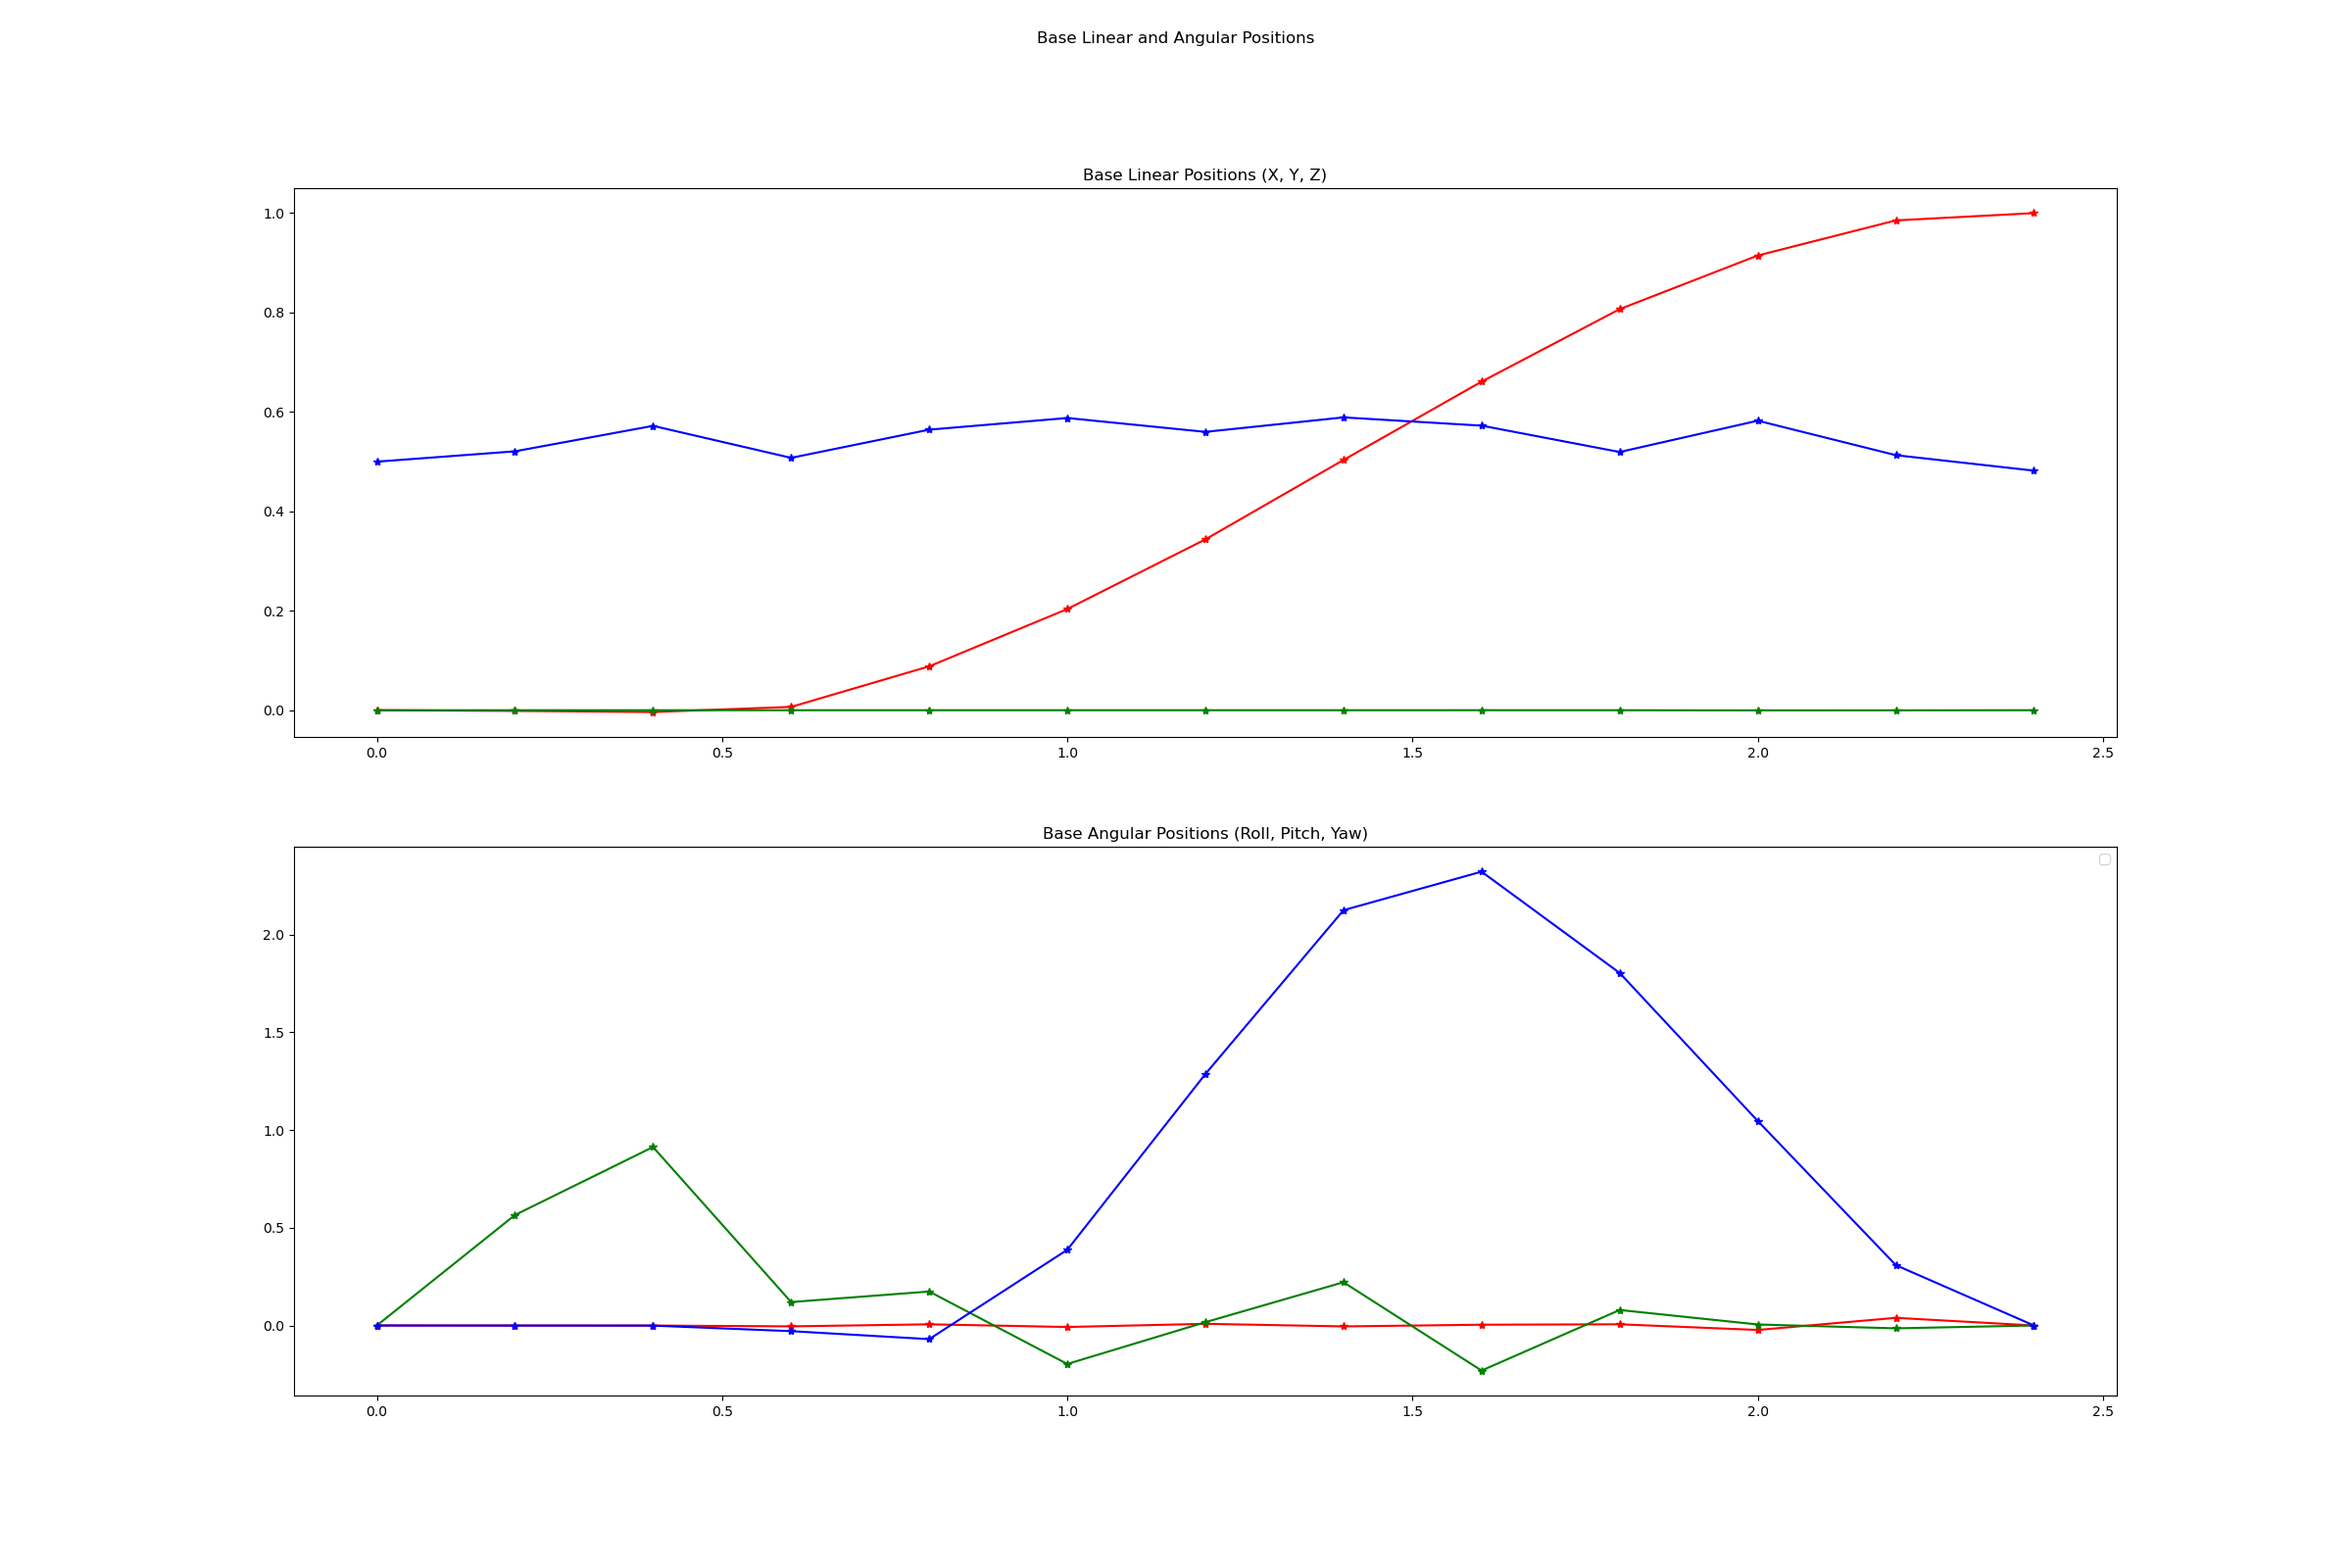
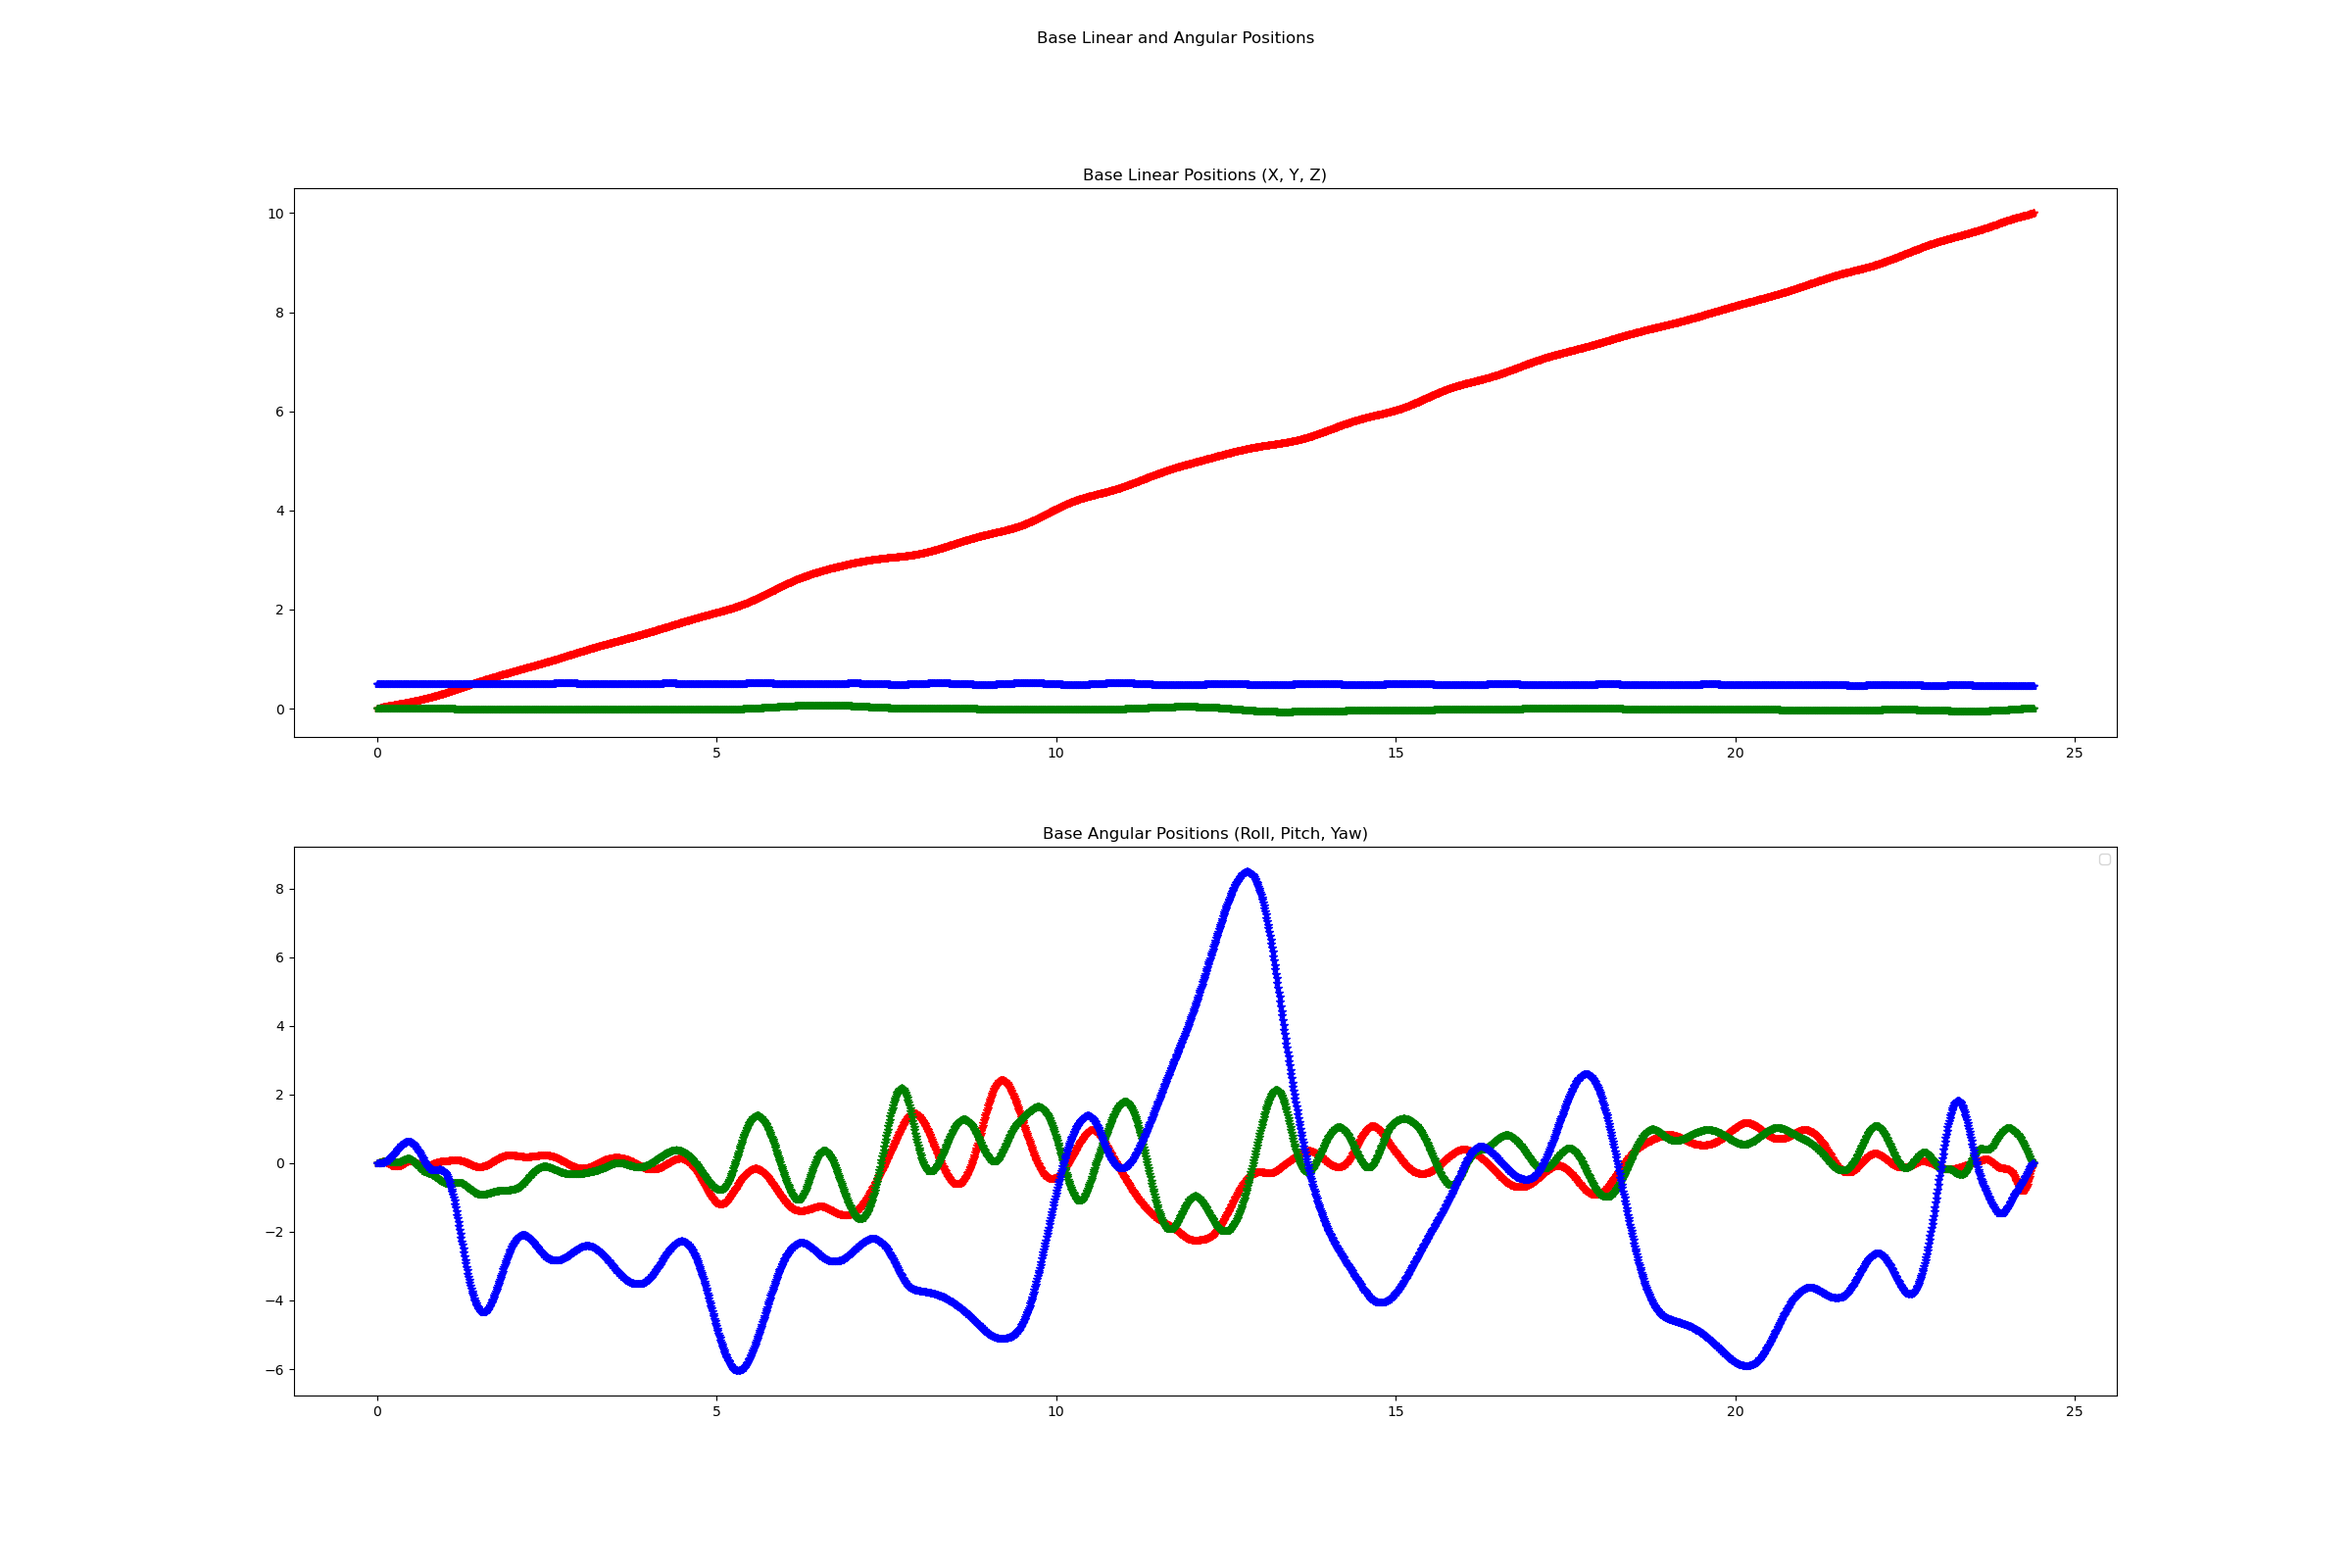
stable walking with some instabilities

diff --git a/src/main.cpp b/src/main.cpp
@@ -90,10 +90,10 @@ int main() {
   double total_duration_;
   bool optimize_phase_durations_;
 
-  robot_ = RobotModel::Anymal;
+  robot_ = RobotModel::Hyq;
   terrain_ = HeightMap::FlatID;
-  gait_combo_ = GaitGenerator::Combos::C1;
-  total_duration_ = 2.4;
+  gait_combo_ = GaitGenerator::Combos::C0; 
+  total_duration_ = 2.40;
   visualize_trajectory_ = false;
   plot_trajectory_ = false;
   replay_speed_ = 1.0;  // realtime
@@ -116,12 +116,20 @@ int main() {
 
   // Kinematic limits and dynamic parameters of the hopper
   model_ = RobotModel(RobotModel::Anymal);
+  auto nominal_stance_B = model_.kinematic_model_->GetNominalStanceInBase();
+
+  double z_ground = 0.0;
+  initial_ee_W_ =  nominal_stance_B;
+  std::for_each(initial_ee_W_.begin(), initial_ee_W_.end(),
+                [&](Eigen::Vector3d& p){ p.z() = z_ground; } // feet at 0 height
+  );
+
 
   // set the initial position of the hopper
   initial_base_.lin.at(kPos).z() = 0.5;
 
   // define the desired goal state of the hopper
-  final_base_.lin.at(towr::kPos) << 1.0, 0.0, 0.5;
+  final_base_.lin.at(towr::kPos) << 1, 0.0, 0.5;
 
   // Instead of manually defining the initial durations for each foot and
   // step, for convenience we use a GaitGenerator with some predefined gaits
@@ -131,19 +139,19 @@ int main() {
   gait_gen_->SetCombo(id_gait);
   for (int ee = 0; ee < n_ee; ++ee) {
     initial_ee_W_.push_back(Eigen::Vector3d::Zero());
-
-    std::vector<double> phase_durations = gait_gen_->GetPhaseDurations(total_duration_, ee);
-    std::cout << "Phase durations for end-effector " << ee << ": ";
-    for (double duration : phase_durations) {
-        std::cout << duration << " ";
-    }
-    std::cout << std::endl;
-    params_.ee_phase_durations_.push_back(
-        gait_gen_->GetPhaseDurations(total_duration_, ee));
-    params_.ee_in_contact_at_start_.push_back(
-        gait_gen_->IsInContactAtStart(ee));
+    // params_.ee_phase_durations_.push_back(
+    //     gait_gen_->GetPhaseDurations(total_duration_, ee));
+    // params_.ee_in_contact_at_start_.push_back(
+    //     gait_gen_->IsInContactAtStart(ee));
   }
-  
+    // auto gait_gen_ = GaitGenerator::MakeGaitGenerator(n_ee);
+    // auto id_gait   = static_cast<GaitGenerator::Combos>(msg.gait);
+    // gait_gen_->SetCombo(id_gait);
+    for (int ee=0; ee<n_ee; ++ee) {
+      params_.ee_phase_durations_.push_back(gait_gen_->GetPhaseDurations(total_duration_, ee));
+      params_.ee_in_contact_at_start_.push_back(gait_gen_->IsInContactAtStart(ee));
+    }
+
   // add 
 
   // Here you can also add other constraints or change parameters
@@ -153,8 +161,9 @@ int main() {
   // more difficult terrain.
   if (optimize_phase_durations_) params_.OptimizePhaseDurations();
 
-
-
+  // print total time 
+  std::cout << "Total time ia: " << params_.GetTotalTime() << " seconds" << std::endl;
+  std::cout << "Number of nodes: " << int(params_.GetBasePolyDurations().size() )+ 1 << std::endl;
 
   std::vector<NodesVariables::Ptr> vars;
 
@@ -228,7 +237,8 @@ int main() {
   }
   vars.insert(vars.end(), ee_motion.begin(), ee_motion.end());
 
-
+  // std::cout << "params_.GetPhaseCount(" << 0 << "): " << params_.GetPhaseCount(0) << std::endl;
+  
 
   std::vector<NodesVariablesPhaseBased::Ptr> ee_force;
 
@@ -285,14 +295,14 @@ int main() {
   // constraints and costs.
   
   
-
+  
   for (int ee=0; ee<params_.GetEECount(); ee++) {
     auto rom = std::make_shared<RangeOfMotionConstraint>(model_.kinematic_model_,
                                                          params_.GetTotalTime(),
                                                          params_.dt_constraint_range_of_motion_,
                                                          ee,
                                                          spline_holder);
-    // constraints.push_back(rom);
+    constraints.push_back(rom);
   }
   
   
@@ -338,10 +348,23 @@ int main() {
 
 
 
+ std::vector<ifopt::CostTerm::Ptr> costs;
+ double weight = 1.0;
+
+  // for (int ee=0; ee<params_.GetEECount(); ee++)
+  //   costs.push_back(std::make_shared<NodeCost>(ee_force_nodes + std::to_string(ee), kPos, Z, weight));
+
+
+  // for (int ee=0; ee<params_.GetEECount(); ee++) {
+  //   costs.push_back(std::make_shared<NodeCost>(ee_motion_nodes + std::to_string(ee), kVel, X, weight));
+  //   costs.push_back(std::make_shared<NodeCost>(ee_motion_nodes + std::to_string(ee), kVel, Y, weight));
+  // }
+
+
   ifopt::Problem nlp;
   for (auto var : vars) nlp.AddVariableSet(var);
   for (auto con : constraints)  nlp.AddConstraintSet(con); 
-  // for (auto c : formulation.GetCosts()) nlp.AddCostSet(c);
+  for (auto cost : costs) nlp.AddCostSet(cost);
 
   // You can add your own elements to the nlp as well, simply by calling:
   // nlp.AddVariablesSet(your_custom_variables);
@@ -391,7 +414,7 @@ int main() {
 
     cout << endl;
 
-    t += 0.2;
+    t += 0.02;
   }
 
   plot_trajectories(solution);

diff --git a/include/plot_trajectories.h b/include/plot_trajectories.h
@@ -202,6 +202,18 @@ void plot_grouped_trajectories(const towr::SplineHolder& solution) {
         // Foot positions, forces, and contact phases
         for (size_t leg = 0; leg < 4; ++leg) {
             Eigen::Vector3d foot_pos = solution.ee_motion_.at(leg)->GetPoint(t).p();
+
+
+            // Eigen::Vector3d base_W  = solution.base_linear_->GetPoint(t).p();
+
+            // Eigen::Vector3d pos_ee_W = solution.ee_motion_.at(leg)->GetPoint(t).p();
+            // towr::EulerConverter base_angular_ = solution.base_angular_;
+            // towr::EulerConverter::MatrixSXd b_R_w = base_angular_.GetRotationMatrixBaseToWorld(t).transpose();
+
+            // Eigen::Vector3d vector_base_to_ee_W = pos_ee_W - base_W;
+            
+            // Eigen::Vector3d vector_base_to_ee_B = b_R_w*(vector_base_to_ee_W);
+            // foot_pos = vector_base_to_ee_B;
             foot_positions[leg][0].push_back(foot_pos.x());
             foot_positions[leg][1].push_back(foot_pos.y());
             foot_positions[leg][2].push_back(foot_pos.z());
@@ -215,7 +227,7 @@ void plot_grouped_trajectories(const towr::SplineHolder& solution) {
             contact_phases[leg].push_back(is_contact ? 1.0 : 0.0);
         }
 
-        t += 0.2;
+        t += 0.01;
     }
 
     // Save grouped base linear and angular positions plot

diff --git a/src/towr/parameters.cc b/src/towr/parameters.cc
@@ -46,10 +46,11 @@ Parameters::Parameters ()
 
   // parameters related to specific constraints (only used when it is added as well)
   force_limit_in_normal_direction_ = 1000;
-  dt_constraint_range_of_motion_ = 0.16;
+  dt_constraint_range_of_motion_ = 0.08;
   dt_constraint_dynamic_ = 0.1;
   dt_constraint_base_motion_ = duration_base_polynomial_/4.; // only for base RoM constraint
   bound_phase_duration_ = std::make_pair(0.2, 1.0);  // used only when optimizing phase durations, so gait
+
 
   // a minimal set of basic constraints
   constraints_.push_back(Terrain);
@@ -121,10 +122,10 @@ Parameters::GetTotalTime () const
   double T = T_feet.empty()? 0.0 : T_feet.front(); // take first foot as reference
  
 
-  //add debug prins
-  for (size_t i = 0; i < T_feet.size(); ++i) {
-    std::cout << "Total time for foot " << i << ": " << T_feet[i] << std::endl;
-  }
+  // //add debug prins
+  // for (size_t i = 0; i < T_feet.size(); ++i) {
+  //   std::cout << "Total time for foot " << i << ": " << T_feet[i] << std::endl;
+  // }
 
   for (double Tf : T_feet)
     assert(fabs(Tf - T) < 1e-6);

diff --git a/src/towr/nodes_variables_phase_based.cc b/src/towr/nodes_variables_phase_based.cc
@@ -74,6 +74,7 @@ NodesVariablesPhaseBased::VecDurations
 NodesVariablesPhaseBased::ConvertPhaseToPolyDurations(const VecDurations& phase_durations) const
 {
   VecDurations poly_durations;
+  std::cout<<"info.n_polys_in_phase_"<<polynomial_info_.at(0).n_polys_in_phase_<<std::endl;
 
   for (int i=0; i<GetPolynomialCount(); ++i) {
     auto info = polynomial_info_.at(i);
